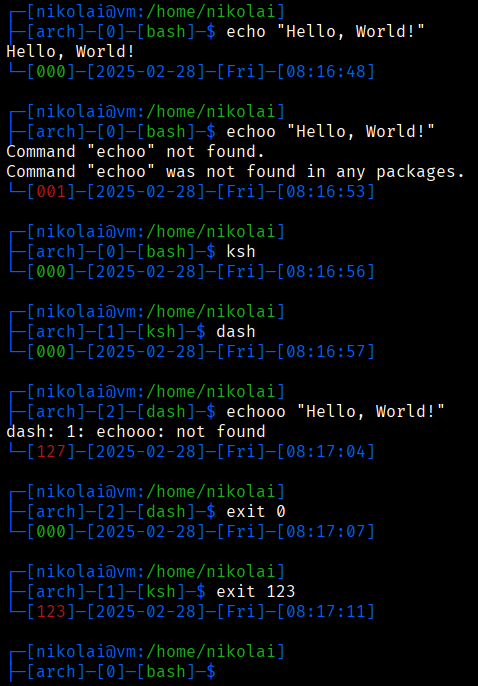
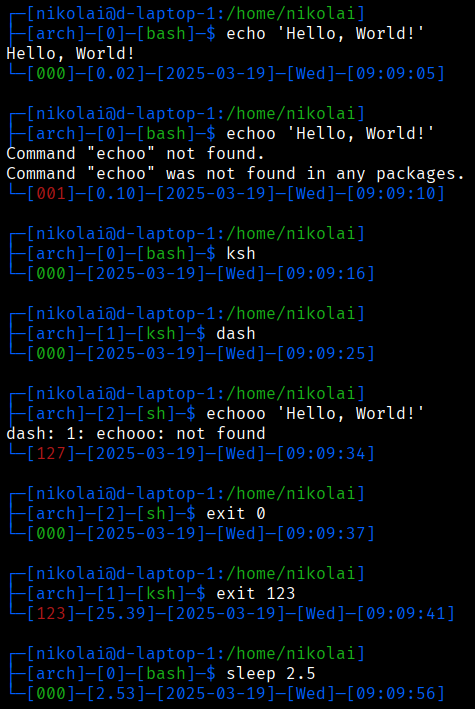
Fix "unset" for "ksh"; Update preview

Changed region(s): [[0.0, 0.1531, 0.9726, 1.0], [0.0295, 0.0, 0.9432, 0.1224], [0.0, 0.9796, 0.0295, 1.0]]

diff --git a/README.md b/README.md
@@ -14,7 +14,7 @@ Structure of the command prompt:
 ┌─[USER_NAME@PC_NAME:FULL_PATH_TO_THE_CURRENT_DIRECTORY]
 ├─[OS_NAME]─[SHELL_DEPTH]─[SHELL_NAME]─$ COMMAND
 COMMAND_OUTPUT
-└─[COMMAND_RETURN_CODE]─[FINISHED_DATE]─[FINISHED_DAY_OF_THE_WEEK]─[FINISHED_TIME]
+└─[COMMAND_RETURN_CODE]─[EXECUTION_TIME_IN_SECONDS]─[FINISHED_DATE]─[FINISHED_DAY_OF_THE_WEEK]─[FINISHED_TIME]
 ```
 
 ## 3. Requirements
@@ -130,6 +130,7 @@ As shown in preview above, these scripts when sourced will show information abou
 - Full path to the current directory;
 - Current real shell (follows symlinks);
 - Exit code of the finished command. If it is not `0`, it will be red (can be seen on preview);
+- Execution time in seconds (only in `bash`);
 - Date and time when command was finished.
 
 ### 6.2. Aliases
